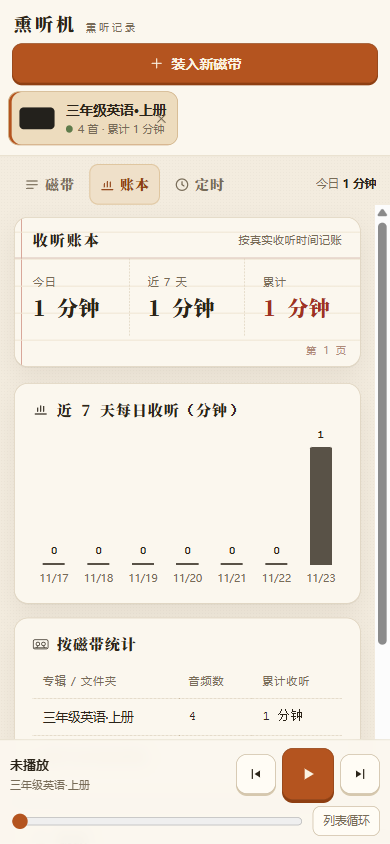
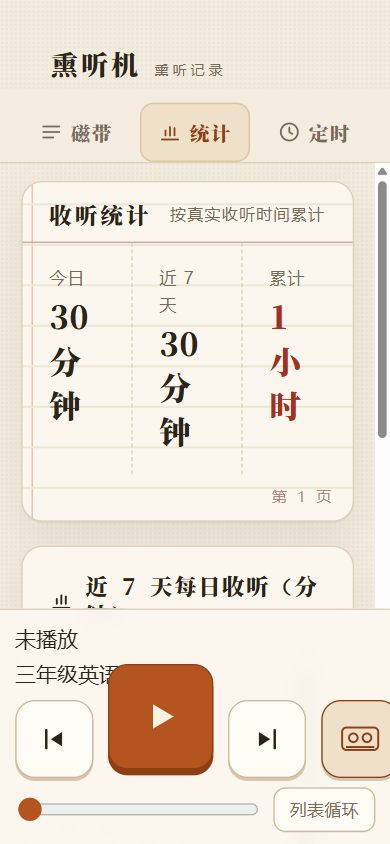
feat: 磁带卡可见删除按钮 + 更新预览截图

diff --git a/docs/index.html b/docs/index.html
@@ -61,6 +61,10 @@ svg.ic{width:16px;height:16px;fill:none;stroke:currentColor;stroke-width:1.8;str
 .tcard .t-top{display:flex;align-items:center;gap:8px}
 .tcard .t-holes{display:flex;gap:3px;flex:none}
 .tcard .t-holes i{width:6px;height:6px;border-radius:50%;background:rgba(43,36,25,.16)}
+.tcard .t-del{flex:none;width:30px;height:30px;border:1.5px solid #B4432B;background:#FBF3E2;color:#B4432B;border-radius:8px;display:flex;align-items:center;justify-content:center;cursor:pointer;padding:0}
+.tcard .t-del:hover{background:#B4432B;color:#FBF3E2}
+.tcard .t-del:active{transform:scale(.92)}
+.tcard .t-del svg{width:14px;height:14px}
 .tcard .t-n{flex:1;min-width:0;font:600 14px/1.3 var(--serif);letter-spacing:1px;white-space:nowrap;overflow:hidden;text-overflow:ellipsis}
 .tcard .t-mid{display:flex;gap:8px;align-items:center;margin-top:5px}
 .tcard .t-reels{flex:none;display:flex;gap:6px}
@@ -919,7 +923,8 @@ function renderAlbums(){
       + more
       + '<div class="tcard-del" data-del="'+a.id+'"><svg class="ic"><use href="#i-x"/></svg><span>抽出</span></div>'
       + '<div class="tcard'+(isCur?' sel':'')+'" data-id="'+a.id+'">'
-      + '<div class="t-top"><span class="t-holes"><i></i><i></i></span><div class="t-n">'+esc(a.name)+'</div></div>'
+      + '<div class="t-top"><span class="t-holes"><i></i><i></i></span><div class="t-n">'+esc(a.name)+'</div>'
+      + '<button class="t-del" data-del="'+a.id+'" title="删除磁带"><svg class="ic"><use href="#i-trash"/></svg></button></div>'
       + '<div class="t-mid"><span class="t-reels"><i></i><i></i></span><div class="t-sub">'+esc(sub)+'</div><span class="t-rabbit"></span></div>'
       + '</div>'
       + trackList
